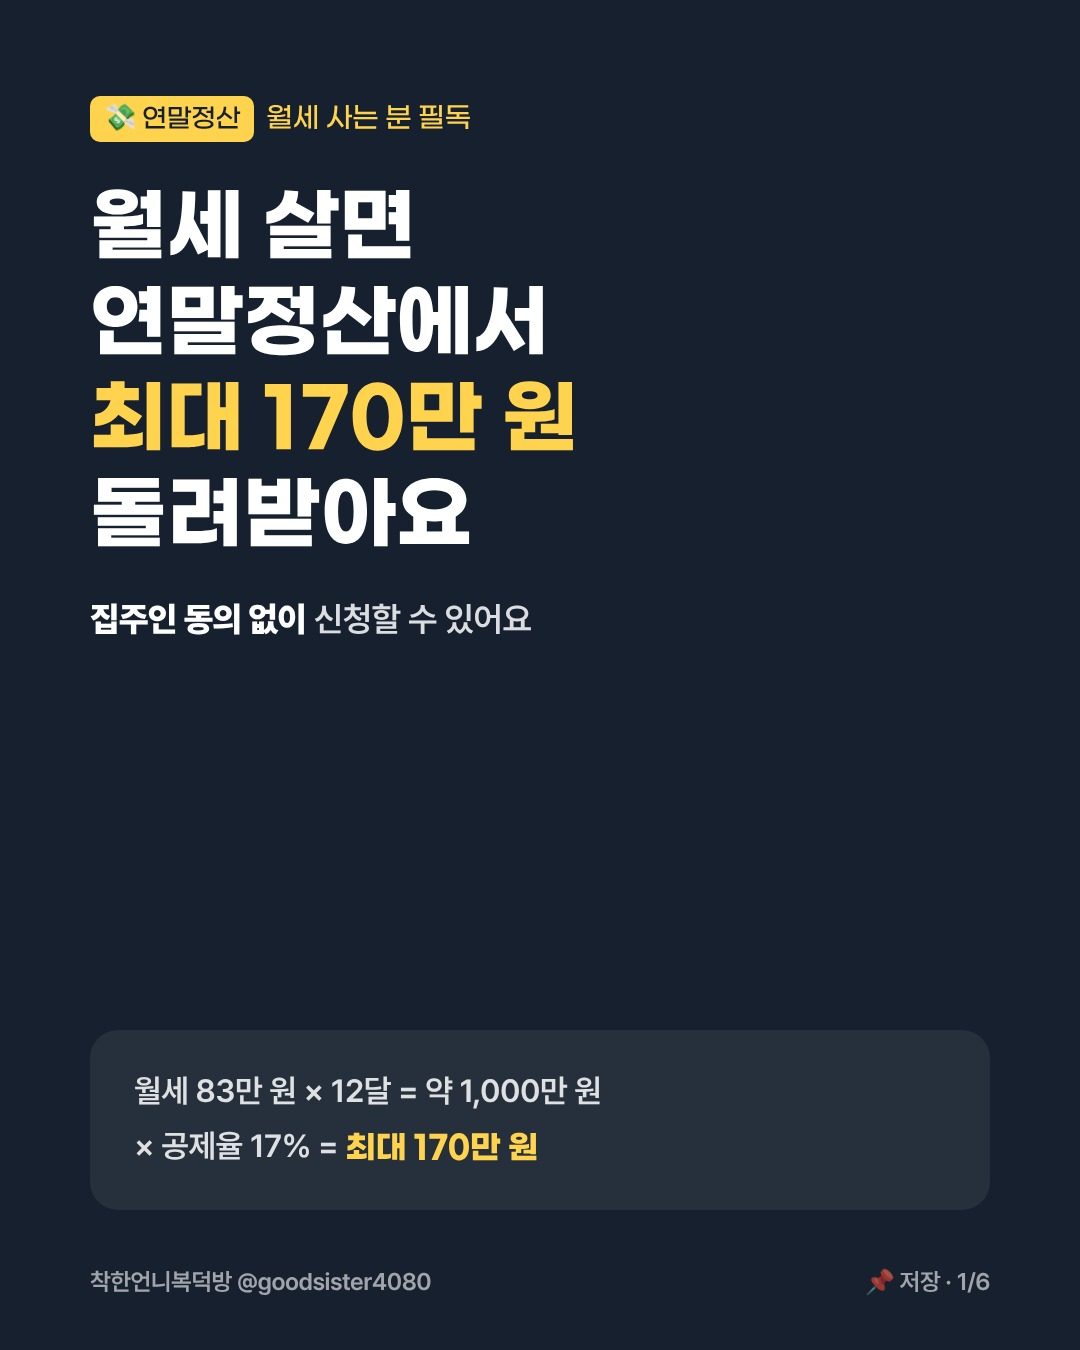
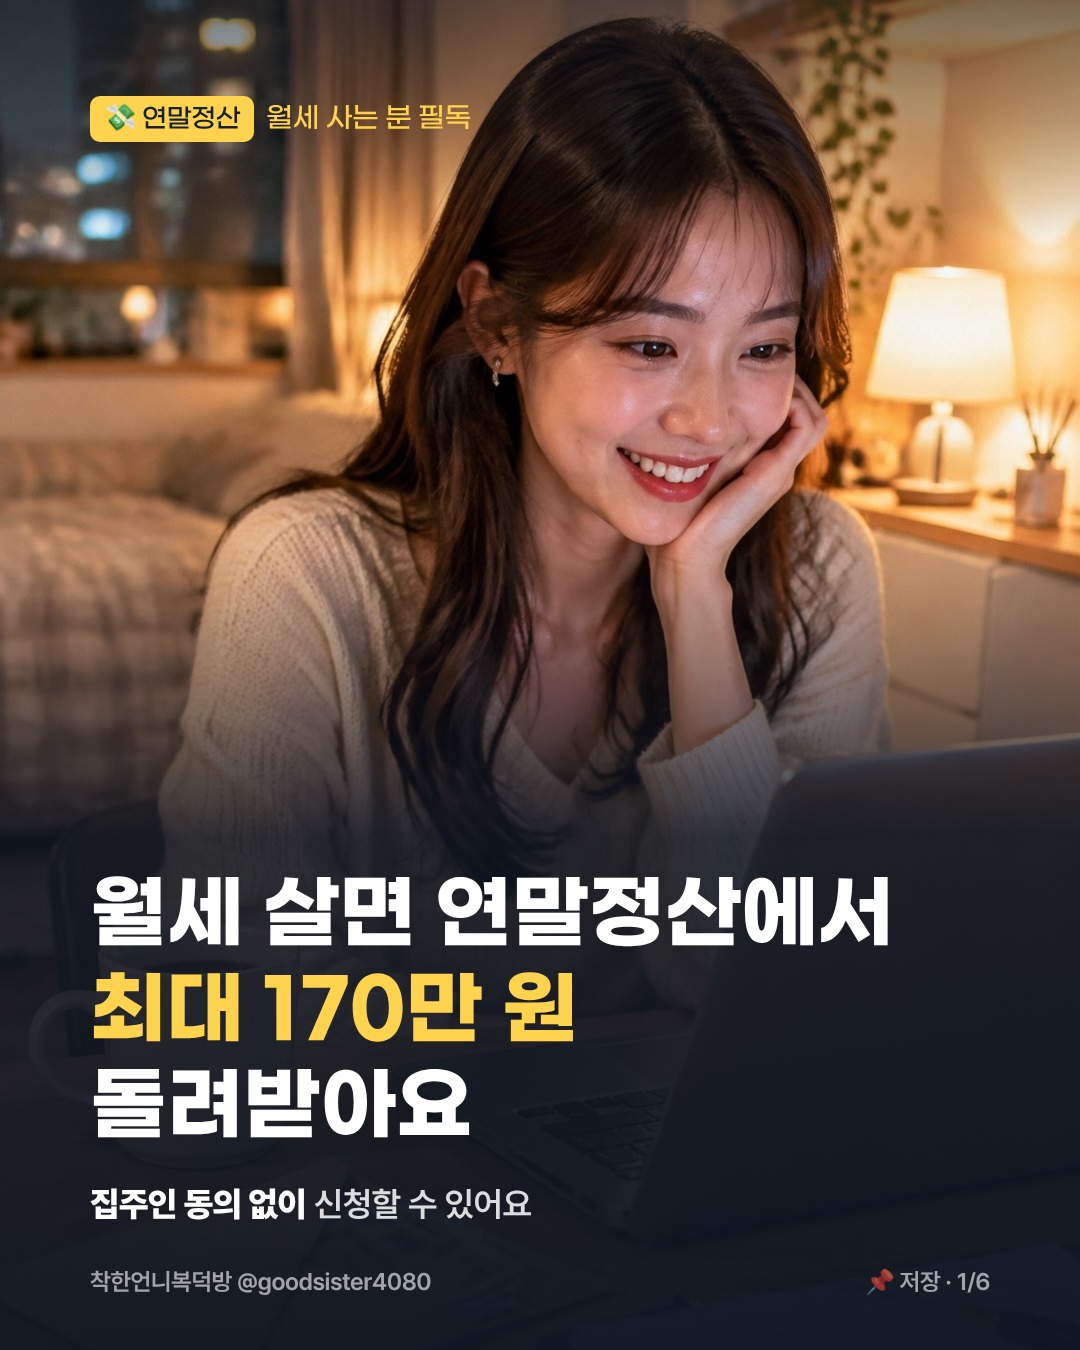
월세 세액공제 카드 표지 v2: 사진 배경
Claude-Session: https://claude.ai/code/session_01TVq9M4GpnT2XRseWGn9WC1

diff --git a/instagram/cards/2026-11-26-wolse-tax/cards.html b/instagram/cards/2026-11-26-wolse-tax/cards.html
@@ -83,11 +83,13 @@ mark{background:linear-gradient(transparent 55%,#FFD34D 55%);color:inherit;paddi
 .ox .q{font-size:33px;font-weight:800;line-height:1.35}.ox .q small{display:block;font-size:26px;font-weight:500;color:#5B6574;margin-top:6px}
 </style></head><body>
 
-<div class="s dark" id="s1">
- <div class="ser"><i>💸 연말정산</i> 월세 사는 분 필독</div>
- <div class="ct" style="font-size:80px;margin-top:40px">월세 살면<br>연말정산에서<br><em>최대 170만 원</em><br>돌려받아요</div>
- <div class="cs" style="font-size:34px"><b>집주인 동의 없이</b> 신청할 수 있어요</div>
- <div class="calc">월세 83만 원 × 12달 = 약 1,000만 원<br>× 공제율 17% = <b>최대 170만 원</b></div>
+<div class="s dark" id="s1" style="background:#16202E url(cover-bg.jpg) center/cover">
+ <div style="position:absolute;inset:0;background:linear-gradient(180deg,rgba(14,22,34,.55) 0%,rgba(14,22,34,0) 18%,rgba(14,22,34,0) 40%,rgba(14,22,34,.85) 62%,rgba(14,22,34,.97) 100%)"></div>
+ <div class="ser" style="position:relative"><i>💸 연말정산</i> 월세 사는 분 필독</div>
+ <div style="position:absolute;left:90px;right:90px;bottom:120px">
+  <div class="ct" style="font-size:80px;margin:0">월세 살면 연말정산에서<br><em>최대 170만 원</em><br>돌려받아요</div>
+  <div class="cs" style="font-size:34px;margin-top:22px"><b>집주인 동의 없이</b> 신청할 수 있어요</div>
+ </div>
  <div class="foot"><span>착한언니복덕방 @goodsister4080</span><span>📌 저장 · 1/6</span></div>
 </div>
 
